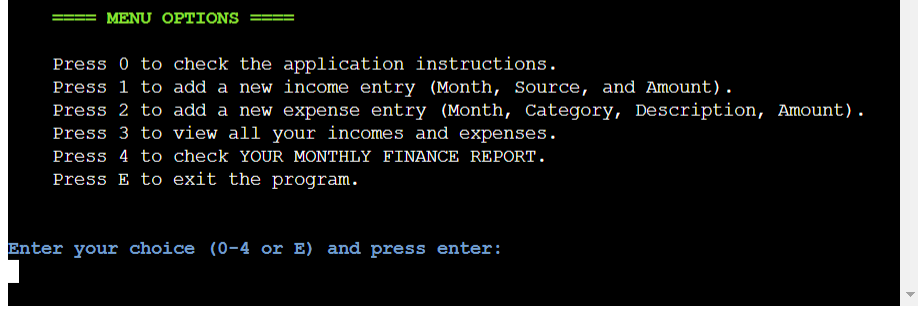
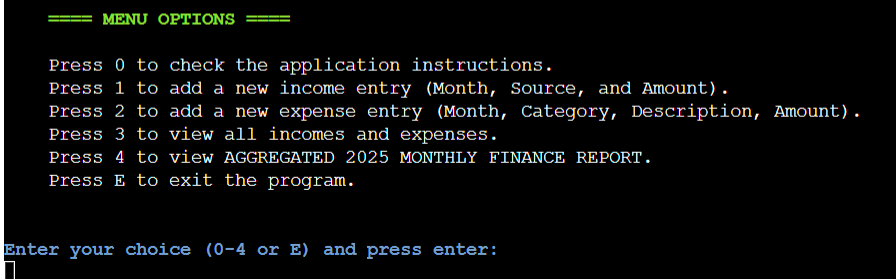
Update exit message to reassure users further data will be provided along with the monthly report

Changed region(s): [[0.0, 0.0, 1.0, 1.0]]

diff --git a/run.py b/run.py
@@ -48,10 +48,11 @@ def exit_program():
     {Fore.GREEN + Style.BRIGHT}
     ✨ Thank you for your contribution! ✨
 
-     We'll be using it to analyze key financial trends and will publish
-     monthly reports summarizing our findings.
+    We'll use your data to analyze key financial trends
+    and share further insights beyond those available in
+    the monthly report.
 
-     Stay tuned for updates! 📈🔔
+    Stay tuned for updates! 📈🔔
     """
     print(exit_message)
     exit()

diff --git a/README.md b/README.md
@@ -81,35 +81,10 @@
 
   + Regularly update content and features (e.g., monthly, quarterly, yearly reports) to maintain user engagement.
   + Provide to the community monthly reports summarizing key financial trends observed in the collected data.
+  + Let the user know that their data they will get published monthly reports summarizing findings.
   + Ensure a smooth and accessible user experience by regularly testing the site on different devices and browsers and addressing any reported accessibility issues within.
   + To keep the application running correctly, be free of bugs, and not crash.
   + Collect and review user feedback to understand user needs and identify areas for improvement.
-
-
-  * **Regularly update content and features:**
-    * 
-    * Release quarterly updates with more in-depth analysis and visualizations.
-    * Explore and implement new features (e.g., interactive data exploration tools, comparison features) on a yearly basis.  
-    * Announce all updates and new features via [mention how you'll communicate - e.g. a blog, email list, social media].
-
-* **Ensure a smooth and accessible user experience:**
-    * Conduct cross-browser and cross-device testing (desktop, mobile, tablet) at least quarterly.
-    * Address any reported accessibility issues (WCAG compliance) within [define timeframe - e.g. two weeks].
-    * Monitor site performance metrics (e.g., page load times, error rates) weekly and address any performance bottlenecks promptly.
-
-* **Maintain application stability and security:**
-    * Implement robust error handling and logging to minimize crashes and facilitate debugging.
-    * Conduct regular security audits and penetration testing [define frequency, e.g. annually or after major updates].
-    * Implement and enforce strong data security measures to protect user anonymity and prevent data breaches.
-    * Ensure 99.9% uptime for the application.
-
-
-
-
-* **Demonstrate community impact:**
-    * Publish reports and case studies showcasing how the collected data has been used to inform local decisions and improve community outcomes.
-    * Share these reports with the community through [mention channels - e.g., website, social media, local news outlets].
-
 
 ---
 ## Features 
@@ -120,23 +95,24 @@ This was corrected accordingly to: What would "you" like to do next?
 ### Welcome message
 
 ![Welcome message](documentation/website-screenshots/2-welcome-message.png)
-  
+
 + Positioned above the menu options.
 + The welcome() function displays a colorful welcome message to the user when the program starts. It uses the colorama library to add green borders, creating a visually appealing introduction to MyFinances app.
-+ The welcome message already informs the user that what can be done in the program and that it is easy to use.
-       
++ The welcome message communicates the application's core function: anonymously sharing 2025 income and expense data to contribute to a better understanding of the community's finances.  It also highlights the anonymity of participation and the impact the data will have on local policy and community programs.
++ The message expresses gratitude for user participation and reinforces the community-centric nature of the project.
+
 ### Menu options
 
 ![Menu options](documentation/website-screenshots/3-menu-options.png)
 
 The Menu provides the following options:
 
-*   **0: Application Instructions:** Learn how to use MyFinances.
+*   **0: Application Instructions:** Access detailed instructions on how to use MyFinances.
 *   **1: Add New Income:** Record a new income entry, by specifying the month, source, and amount.
 *   **2: Add New Expense:** Record a new expense entry, by specifying the month, category, description, and amount.
-*   **3: View All Records:** Display all income and expense entries in a table format.
-*   **4: Monthly Finance Report:** Generate a detailed report for a specific month, showing total income, total expenses, cash balance, and a breakdown of expenses by category.
-*   **E: Exit:** Close the application.
+*   **3: View All Records:** Display all recorded income and expense entries in a table format.
+*   **4: Aggregated 2025 Monthly Finance Report:** Generate a detailed report for a specific month, showing: aggregated total income, aggregated total expenses, net financial balance, expenses per category, and the highest expense of the group/community.
+*   **E: Exit:** Close the application with a goodbye message.
 
 + All input fields are required and cannot be left empty.
 
@@ -154,22 +130,23 @@ The Menu provides the following options:
 
 + E or e are accepted as valid inputs to exit the application, and a GoodBye message is displayed (Figures below).
 
-![Valid choice "e"](documentation/website-screenshots/7-lowercase-valid-input-exit.png)
+![Valid choice "e"](documentation/website-screenshots/7-lowercase-e-valid-input-exit.png)
 
-![Valid choice "E"](documentation/website-screenshots/8-uppercase-valid-input-exit.png)
+![Valid choice "E"](documentation/website-screenshots/8-uppercase-e-valid-input-exit.png)
 
 **Menu Option 0**
 
 + **User inputs 0:**
 
-![Menu option 0](documentation/website-screenshots/9-user-selection-option0.png)
+![Menu option 0](documentation/website-screenshots/9-application-instructions-part1.png)
 
 + **Application Instructions:** The application provides comprehensive instructions accessible from the main menu. These instructions cover each available feature in detail:
     *   **Adding Income:**  Users can record new income entries, specifying the month, source, and amount. The instructions explain the required format for each field and highlight the use of the European currency format for amounts.
-    *   **Adding Expenses:** Users can record expenses, providing the month, category, description, and amount. Similar to income entries, the instructions detail the expected input format and the use of the European currency format.
-    *   **Generating Monthly Reports:** Users can generate detailed financial reports for any month of 2025. These reports include total income, total expenses, cash balance, a breakdown of expenses by category, and the highest expense category.
-    *   **Viewing All Records:** Users can view all their stored income and expense records in a tabular format. This allows for easy review and analysis of their financial data.
-    *   **Exiting the Program:** Users can exit the application when finished.  The instructions reassure users that their data is safely stored.
+    *   **Adding Expenses:** Users can record expenses, providing the month, category, description, and amount. Similar to income entries, the instructions detail the expected input format and highlight the use of the European currency format for amounts.
+    *   **Viewing All Records:** Users can view all the collected income and expense records in a tabular format. This approach was selected for data transparency.
+    *   **Generating Monthly Reports from the aggregated data:**
+    If they wish, users can generate detailed financial reports for any month of 2025. These reports include aggregated total income, aggregated total expenses, net financial balance, expenses per category, and the highest expense of the group/community.
+    *   **Exiting the Program:** Users can exit the application when finished. A message reassure users that their data will be used to analyze key financial trends and share further insights beyond those available in the monthly report.
   
 ![instructions part1](documentation/website-screenshots/9-application-instructions-part1.png)
 ![instructions part2](documentation/website-screenshots/9-application-instructions-part2.png)
